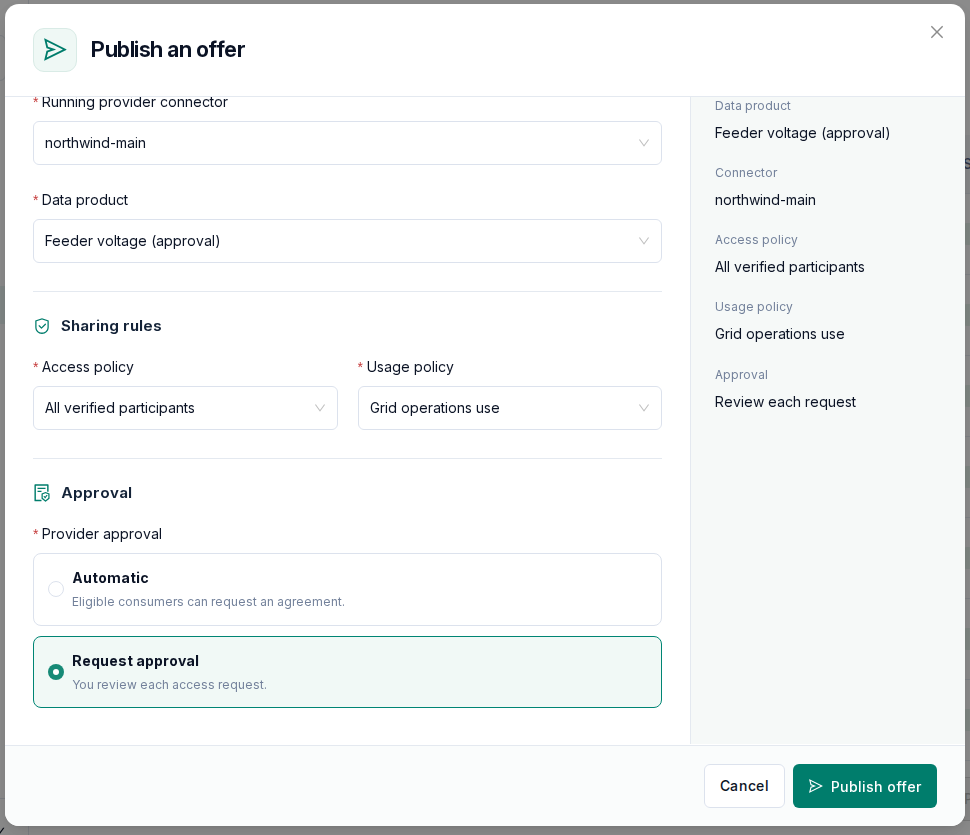
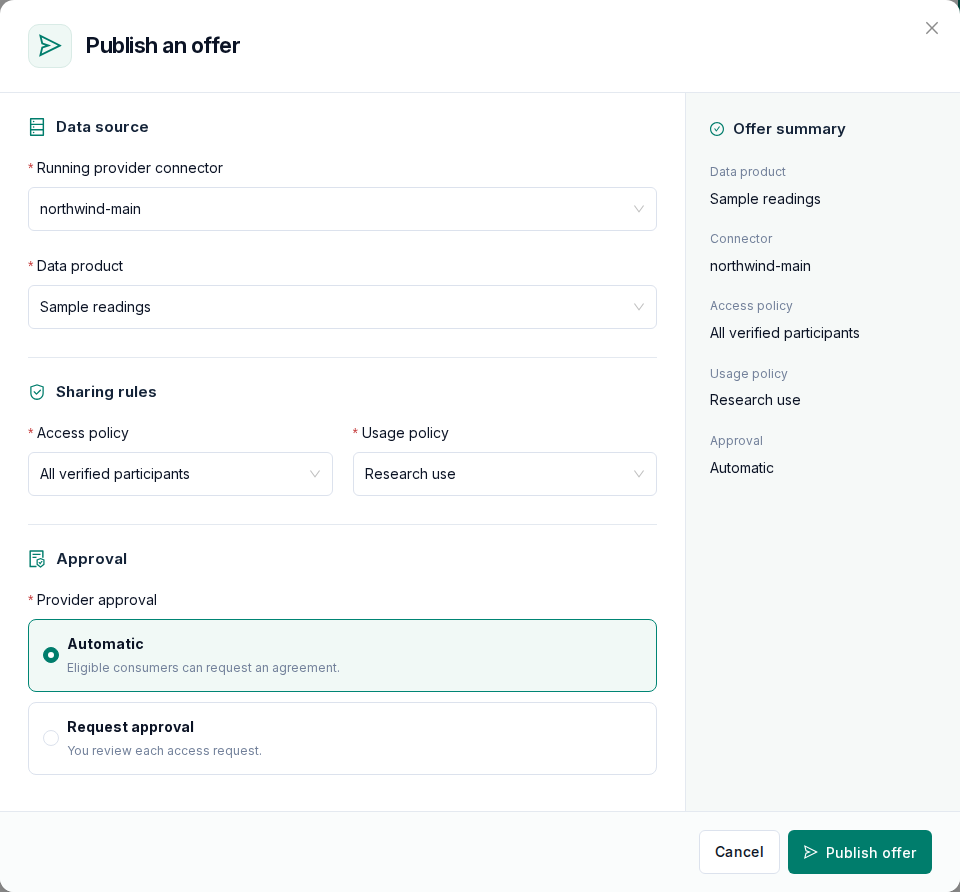
Tutorial: start from the built-in sample data and show automatic approval

diff --git a/docs/guide/first-exchange.md b/docs/guide/first-exchange.md
@@ -6,9 +6,9 @@ title: Your first data exchange
 # Your first data exchange
 
 This walk-through takes two organizations from registration to a downloaded file in about
-half an hour. One provides data, the other consumes it. You need an OpenDS installation
-([Installation](/getting-started)) and a data source reachable over HTTP, for example a
-JSON file on a web server.
+half an hour once the connectors run. One provides data, the other consumes it. You need an
+OpenDS installation ([Installation](/getting-started)). As data, use the sample every
+installation serves at `https://<your domain>/api/test-data`.
 
 ## 1. Register both organizations
 
@@ -34,7 +34,8 @@ connector of an installation takes longer while the software downloads. Then sel
 2. **Policies → Usage policies → New usage policy**: name it, choose the connector, the rule
    **Allowed usage purposes** and a purpose. Consumers accept these terms in the agreement.
 3. **Data products → New data product**: a name, a description, the connector, a category
-   and the **Provider source URL** of your data.
+   and the **Provider source URL**: `https://<your domain>/api/test-data`. For your own data
+   later, use an address the connector can reach, not `localhost`.
 
 ## 4. Publish the offer (provider)
 
@@ -43,8 +44,7 @@ usage policy, keep **Automatic** approval, and publish.
 
 ![The Publish an offer dialog: connector, data product, access and usage policy, and approval, with a summary on the right](./img/publish-offer.png)
 
-The summary on the right shows what partners will see. (This example uses **Request
-approval**; keep **Automatic** for your first exchange.)
+The summary on the right shows what partners will see.
 
 ## 5. Find it and agree (consumer)
 
